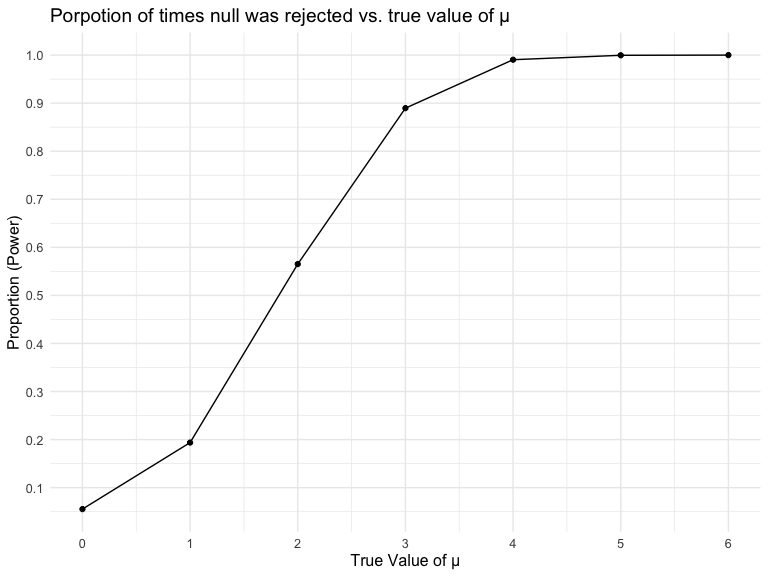
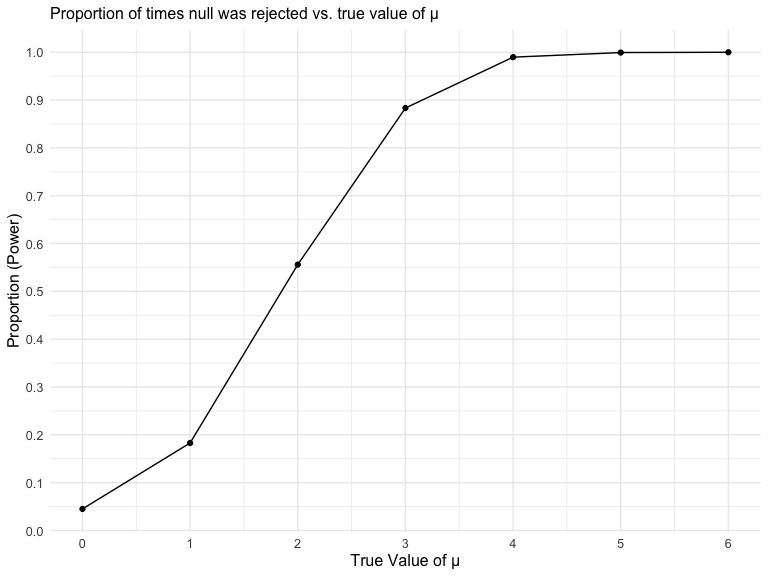
interpretation for problem 3 plot 1

diff --git a/p8105_hw5_pc2979.md b/p8105_hw5_pc2979.md
@@ -258,16 +258,16 @@ sim_mu_0
     ## # A tibble: 5,000 × 4
     ##       mu iteration estimate p.value
     ##    <dbl>     <int>    <dbl>   <dbl>
-    ##  1     0         1    2.13   0.0322
-    ##  2     0         2    0.158  0.860 
-    ##  3     0         3    0.521  0.552 
-    ##  4     0         4    0.361  0.684 
-    ##  5     0         5    1.83   0.0930
-    ##  6     0         6    1.37   0.197 
-    ##  7     0         7   -0.707  0.391 
-    ##  8     0         8   -0.781  0.381 
-    ##  9     0         9   -0.198  0.848 
-    ## 10     0        10    0.128  0.882 
+    ##  1     0         1   -0.683   0.456
+    ##  2     0         2    0.833   0.271
+    ##  3     0         3    0.623   0.512
+    ##  4     0         4   -0.858   0.461
+    ##  5     0         5   -0.114   0.858
+    ##  6     0         6   -1.02    0.240
+    ##  7     0         7    0.393   0.635
+    ##  8     0         8    0.355   0.640
+    ##  9     0         9   -0.589   0.460
+    ## 10     0        10    0.717   0.442
     ## # … with 4,990 more rows
 
 Esimates and p-values from simulated estimates located in `sim_mu_0`
@@ -292,16 +292,16 @@ sim_mu_1
     ## # A tibble: 30,000 × 4
     ##       mu iteration estimate p.value
     ##    <int>     <int>    <dbl>   <dbl>
-    ##  1     1         1   0.458   0.673 
-    ##  2     1         2   1.85    0.0171
-    ##  3     1         3   1.83    0.0248
-    ##  4     1         4   0.182   0.862 
-    ##  5     1         5  -0.472   0.687 
-    ##  6     1         6   0.790   0.340 
-    ##  7     1         7   0.0518  0.958 
-    ##  8     1         8   1.30    0.240 
-    ##  9     1         9  -0.401   0.586 
-    ## 10     1        10   2.22    0.0498
+    ##  1     1         1    0.788  0.362 
+    ##  2     1         2    1.15   0.109 
+    ##  3     1         3    0.729  0.497 
+    ##  4     1         4    1.62   0.105 
+    ##  5     1         5    1.73   0.0534
+    ##  6     1         6    1.25   0.146 
+    ##  7     1         7    1.23   0.244 
+    ##  8     1         8   -0.515  0.533 
+    ##  9     1         9    1.26   0.0983
+    ## 10     1        10    1.50   0.127 
     ## # … with 29,990 more rows
 
 Make a plot showing the proportion of times the null was rejected (the
@@ -318,17 +318,22 @@ sim_mu %>%
   geom_point() +
   geom_line() +
   labs(
-    title = "Porpotion of times null was rejected vs. true value of μ",
+    title = "Proportion of times null was rejected vs. true value of μ",
     x = "True Value of μ",
     y = "Proportion (Power)"
   ) +
-  theme(text = element_text (size = 12),
+  theme(plot.title = element_text(size = 12),
+        text = element_text(size = 12),
         legend.position = "none") +
   scale_x_continuous(breaks = seq(0, 6, by = 1)) +
   scale_y_continuous(breaks = seq(0, 1, by = 0.1))
 ```
 
 <img src="p8105_hw5_pc2979_files/figure-gfm/unnamed-chunk-12-1.png" width="90%" />
+Based on the graph, we see a positive relationship between effect size
+and power. Between mu = 0 and mu = 3, power increases but after mu = 3
+(or as power approaches 1), the slope of the curve tapers off,
+suggesting a decreasing effect of effect size on power.
 
 Make a plot showing the average estimate of μ̂ on the y axis and the true
 value of μ on the x axis. Make a second plot (or overlay on the first)
